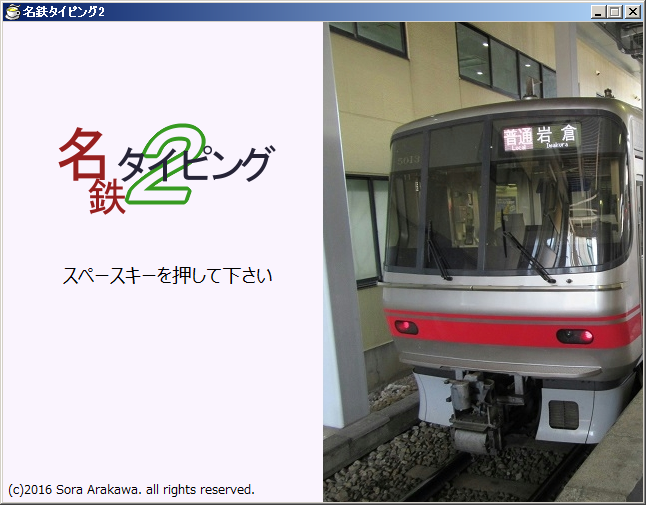
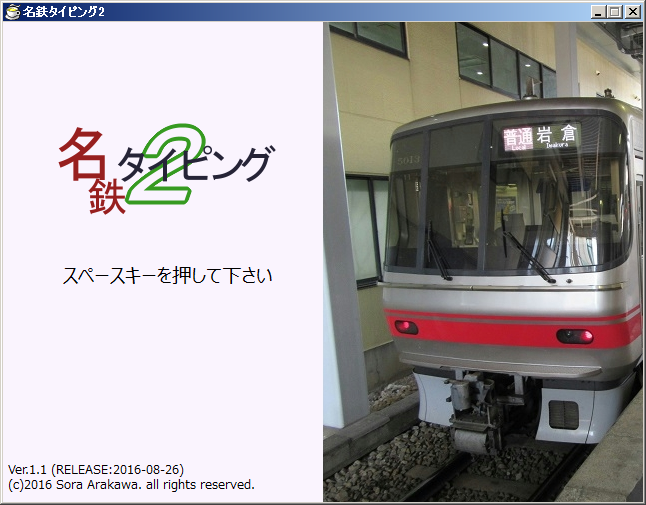
Update 2016/8/27

Changed region(s): [[0.0, 0.9208, 0.4025, 0.9802]]

diff --git a/index.html b/index.html
@@ -13,48 +13,47 @@
 	<body style="font-family:'Meiryo';">
 	<nav class="navbar navbar-default">
 		<div class="container-fluid">
-			<!-- ヘッダー -->
-			<div class="navbar-header">
-				<button type="button" class="navbar-toggle collapsed" data-toggle="collapse" data-target="#navbarEexample1">
-					<span class="sr-only">Toggle navigation</span>
-					<span class="icon-bar"></span>
-					<span class="icon-bar"></span>
-					<span class="icon-bar"></span>
-				</button>
-				<a class="navbar-brand" href="#">
-					AraTech - Official
-				</a>
+			<!-- コンテナ -->
+			<div class="jumbotron">
+				<div class="container">
+					<img src="img/logo.png" width="40%"><img src="img/logo2.png" width="30%">
+				</div>
 			</div>
+			
 			<!-- ヘッダーメニュー -->
-			<div class="collapse navbar-collapse" id="navbarEexample1">
-				<ul class="nav navbar-nav">
+			<hr>
+			<ul class="nav navbar-nav" style="text-align:center">
 					<li><a href="#">開発実績</a></li>
 					<li><a href="#">開発日誌</a></li>
 					<li><a href="profile.html">プロフィール</a></li>
 					<li><a href="link.html">リンク</a></li>
 					<li><a href="contact.html">お問い合わせ</a></li>
-				</ul>
-			</div>
-			<!-- コンテナ -->
-			<div class="container">
-				<div class="jumbotron" style="background: url('img/wallpaper.jpg');background-position: right center;">
-					<h1>ようこそ</h1>
-					<p>実用IT製作者・荒テックの公式サイトへようこそ！</p>
-				</div>
-			</div>
+			</ul>
+			<hr>
+			
 			<div class="container">
 				<div class="row">
+					<!-- 左ペイン -->
 					<div class="col-md-4">
 						<a href="p_utility.html" id="SideLink"><div id="SideButton">実用　<span>Utility</span></div></a>
 						<a href="p_game.html" id="SideLink"><div id="SideButton">ゲーム　<span>Game</span></div></a>
 						<a href="#" id="SideLink"><div id="SideButton">テンプレート　<span>Template</span></div></a>
 						<a href="#" id="SideLink"><div id="SideButton">その他　<span>Other</span></div></a>
 						<a href="#" id="SideLink"><div id="SideButton" style="background-color:rgb(180,180,180)">機種別　<span>Model Distinction</span></div></a>
+						<br><br>
 					</div>
-					
+					<!-- 右ペイン -->
 					<div class="col-md-8">
 						<b><font size="4" color="darkred">What's New</font></b><br>
 						<table>
+							<tr>
+								<td valign="top">
+									2016年8月27日　
+								</td>
+								<td>
+									ゲーム「<a href="p_game.html#MeitetsuTyping2">名鉄タイピング2</a>」をVer.1.1に更新<br><br>
+								</td>
+							</tr>
 							<tr>
 								<td valign="top">
 									2016年8月24日　

diff --git a/p_game.html b/p_game.html
@@ -26,7 +26,10 @@
 			</center><br>
 			あの「めいてつタイピング」が、1年の沈黙を破り帰ってきた！<br>
 			システムを1から作り直し、スコア計算の強化とミスタイプの計測機能を追加しました。<br>
+			Ver.1.1：<a href="https://drive.google.com/open?id=0B4z0DGKhT8lMcDRxTWZTMHUzWTg">ダウンロード (244KB)</a><br>
+			<font size="2">【古いバージョン】<br>
 			Ver.1.0：<a href="https://drive.google.com/open?id=0B4z0DGKhT8lMY0ViS193bWluLVU">ダウンロード (244KB)</a>
+			</font>
 			
 			<br><br><hr>
 			<font size="2">(c)2015-2016 Sora Arakawa. all rights reserved.</font>

diff --git a/css/arkw.css b/css/arkw.css
@@ -4,6 +4,8 @@
 	-2px 2px 1px black,
 	2px -2px 1px black,
 	-2px -2px 1px black;
+	background-image:url("../img/back.jpg");
+	background-position:center bottom;
 }
 
 #SideButton {
@@ -25,4 +27,12 @@
 
 #SideLink:hover{
 	text-decoration:none;
+}
+
+.navbar-nav{
+    margin: 0 auto;
+    display: table;
+    table-layout: fixed;
+    float:none;
+    font-size:20px;
 }
